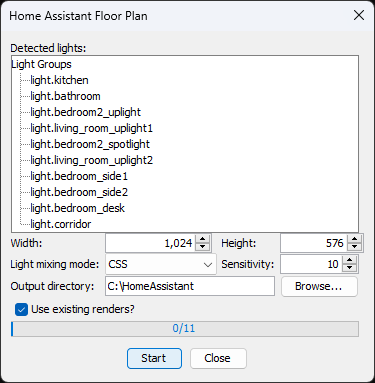
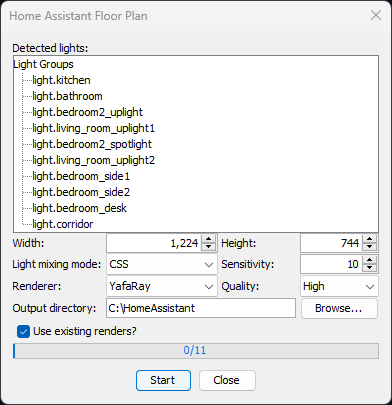
Allow selecting renderer

diff --git a/src/com/shmuelzon/HomeAssistantFloorPlan/Panel.java b/src/com/shmuelzon/HomeAssistantFloorPlan/Panel.java
@@ -78,6 +78,8 @@ public class Panel extends JPanel implements DialogView {
     private JComboBox lightMixingModeComboBox;
     private JLabel sensitivityLabel;
     private JSpinner sensitivitySpinner;
+    private JLabel rendererLabel;
+    private JComboBox rendererComboBox;
     private JLabel qualityLabel;
     private JComboBox qualityComboBox;
     private JLabel outputDirectoryLabel;
@@ -223,14 +225,31 @@ public class Panel extends JPanel implements DialogView {
             }
         });
 
+        rendererLabel = new JLabel();
+        rendererLabel.setText(resource.getString("HomeAssistantFloorPlan.Panel.rendererLabel.text"));
+        rendererComboBox = new JComboBox<Controller.Renderer>(Controller.Renderer.values());
+        rendererComboBox.setSelectedItem(controller.getRenderer());
+        rendererComboBox.setRenderer(new DefaultListCellRenderer() {
+            public Component getListCellRendererComponent(JList<?> jList, Object o, int i, boolean b, boolean b1) {
+                Component rendererComponent = super.getListCellRendererComponent(jList, o, i, b, b1);
+                setText(resource.getString(String.format("HomeAssistantFloorPlan.Panel.rendererComboBox.%s.text", ((Controller.Renderer)o).name())));
+                return rendererComponent;
+            }
+        });
+        rendererComboBox.addActionListener(new ActionListener() {
+            public void actionPerformed(ActionEvent ev) {
+                controller.setRenderer((Controller.Renderer)rendererComboBox.getSelectedItem());
+            }
+        });
+
         qualityLabel = new JLabel();
-        qualityLabel.setText(resource.getString("HomeAssistantFloorPlan.Panel.QualityLabel.text"));
+        qualityLabel.setText(resource.getString("HomeAssistantFloorPlan.Panel.qualityLabel.text"));
         qualityComboBox = new JComboBox<Controller.Quality>(Controller.Quality.values());
         qualityComboBox.setSelectedItem(controller.getQuality());
         qualityComboBox.setRenderer(new DefaultListCellRenderer() {
             public Component getListCellRendererComponent(JList<?> jList, Object o, int i, boolean b, boolean b1) {
                 Component rendererComponent = super.getListCellRendererComponent(jList, o, i, b, b1);
-                setText(resource.getString(String.format("HomeAssistantFloorPlan.Panel.QualityComboBox.%s.text", ((Controller.Quality)o).name())));
+                setText(resource.getString(String.format("HomeAssistantFloorPlan.Panel.qualityComboBox.%s.text", ((Controller.Quality)o).name())));
                 return rendererComponent;
             }
         });
@@ -306,6 +325,7 @@ public class Panel extends JPanel implements DialogView {
         heightSpinner.setEnabled(enabled);
         lightMixingModeComboBox.setEnabled(enabled);
         sensitivitySpinner.setEnabled(enabled);
+        rendererComboBox.setEnabled(enabled);
         qualityComboBox.setEnabled(enabled);
         outputDirectoryTextField.setEnabled(enabled);
         outputDirectoryBrowseButton.setEnabled(enabled);
@@ -358,12 +378,18 @@ public class Panel extends JPanel implements DialogView {
             3, 3, 1, 1, 0, 0, GridBagConstraints.CENTER,
             GridBagConstraints.HORIZONTAL, insets, 0, 0));
 
-        /* Fifth row (Quality) */
-        add(qualityLabel, new GridBagConstraints(
+        /* Fifth row (Renderer + Quality) */
+        add(rendererLabel, new GridBagConstraints(
             0, 4, 1, 1, 0, 0, GridBagConstraints.CENTER,
             GridBagConstraints.HORIZONTAL, insets, 0, 0));
-        add(qualityComboBox, new GridBagConstraints(
+        add(rendererComboBox, new GridBagConstraints(
             1, 4, 1, 1, 0, 0, GridBagConstraints.CENTER,
+            GridBagConstraints.HORIZONTAL, insets, 0, 0));
+        add(qualityLabel, new GridBagConstraints(
+            2, 4, 1, 1, 0, 0, GridBagConstraints.CENTER,
+            GridBagConstraints.HORIZONTAL, insets, 0, 0));
+        add(qualityComboBox, new GridBagConstraints(
+            3, 4, 1, 1, 0, 0, GridBagConstraints.CENTER,
             GridBagConstraints.HORIZONTAL, insets, 0, 0));
 
         /* Sixth row (Output directory) */

diff --git a/src/com/shmuelzon/HomeAssistantFloorPlan/Controller.java b/src/com/shmuelzon/HomeAssistantFloorPlan/Controller.java
@@ -35,6 +35,7 @@ import com.eteks.sweethome3d.model.Room;
 public class Controller {
     public enum Property {COMPLETED_RENDERS, LIGHT_MIXING_MODE}
     public enum LightMixingMode {CSS, OVERLAY, FULL}
+    public enum Renderer {YAFARAY, SUNFLOW}
     public enum Quality {HIGH, LOW}
 
     private Home home;
@@ -55,7 +56,8 @@ public class Controller {
     private int renderWidth = 1024;
     private int renderHeight = 576;
     private boolean useExistingRenders = true;
-    private Quality quality;
+    private Renderer renderer = Renderer.YAFARAY;
+    private Quality quality = Quality.HIGH;
 
     class StateIcon {
         public String name;
@@ -81,7 +83,6 @@ public class Controller {
         lightsNames = new ArrayList<String>(lights.keySet());
         lightsPower = getLightsPower(lights);
         homeAssistantEntities = getHomeAssistantEntities();
-        this.quality = Quality.HIGH;
     }
 
     public void addPropertyChangeListener(Property property, PropertyChangeListener listener) {
@@ -156,6 +157,14 @@ public class Controller {
 
     public void setUserExistingRenders(boolean useExistingRenders) {
         this.useExistingRenders = useExistingRenders;
+    }
+
+    public Renderer getRenderer() {
+        return renderer;
+    }
+
+    public void setRenderer(Renderer renderer) {
+        this.renderer = renderer;
     }
 
     public Quality getQuality() {
@@ -381,8 +390,12 @@ public class Controller {
     }
 
     private BufferedImage renderScene() throws IOException {
+        Map<Renderer, String> rendererToClassName = new HashMap<Renderer, String>() {{
+            put(Renderer.SUNFLOW, "com.eteks.sweethome3d.j3d.PhotoRenderer");
+            put(Renderer.YAFARAY, "com.eteks.sweethome3d.j3d.YafarayRenderer");
+        }};
         AbstractPhotoRenderer photoRenderer = AbstractPhotoRenderer.createInstance(
-            "com.eteks.sweethome3d.j3d.YafarayRenderer",
+            rendererToClassName.get(renderer),
             home, null, this.quality == Quality.LOW ? AbstractPhotoRenderer.Quality.LOW : AbstractPhotoRenderer.Quality.HIGH);
         BufferedImage image = new BufferedImage(renderWidth, renderHeight, BufferedImage.TYPE_INT_RGB);
         photoRenderer.render(image, home.getCamera(), null);

diff --git a/README.md b/README.md
@@ -62,6 +62,8 @@ the room they're located in. Please verify the list matches your expectations.
 * Sensitivity - [1, 100] The degree by which two pixels need to be different
   from one another to be taken into account for the generated overlay image.
   Only relevant for "room overlay" light mixing mode
+* Renderer - Select which rendering engine to use, YafaRay or SunFlow
+* Quality - Choose the rendering quality (low or high)
 * Output directory - The location on your PC where the floor plan images and
   YAML will be saved
 
@@ -95,7 +97,7 @@ When using the "Room overlay" light mixing mode, it's also suggested to:
 * Close all the doors between individually lighted rooms
 
 ## Possible Future Enhancements
-- [ ] Allow selecting renderer (SunFlow/Yafaray)
+- [x] Allow selecting renderer (SunFlow/Yafaray)
 - [x] Allow selecting quality (high/low)
 - [ ] Allow selecting date/time of render
 - [ ] Create multiple renders for multiple hours of the day and display in Home
